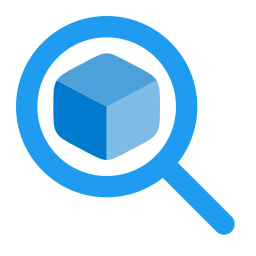
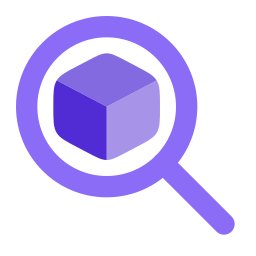
feat: rebrand NuGet LL accent from blue to .NET purple
Moves NuGet LL off VS Code blue (which Gitable keeps) onto the .NET
brand purple, across the extension and the site:

- Logo: cube #512BD4, lens #8B6CF6; re-rendered media/getll.png
  (Marketplace icon) and site/assets/getll.png (social image)
- Webview dashboard and activity-bar home view: purple accent tokens,
  with a lighter accent-dark/deep in dark themes so icons and borders
  stay visible
- Site: #512BD4 accent with white button text in light mode,
  #8B6CF6 / #B29CFB in dark mode
- All text/button pairs meet WCAG AA (4.8:1 to 9:1)

Also aligns the site with Gitable's: thin accent scrollbar, 1320px
content width, 0.85/1.15 hero split, application-name and og:locale meta.

diff --git a/src/webview/homeViewProvider.ts b/src/webview/homeViewProvider.ts
@@ -113,11 +113,11 @@ export class HomeViewProvider implements vscode.WebviewViewProvider {
     // Brand mark: 3D package cube inside a magnifying-glass lens (media/getll.svg).
     const logoSvg = `<svg width="26" height="26" viewBox="0 0 24 24" fill="none" aria-hidden="true">
       <g transform="translate(4 4) scale(0.5)">
-        <path d="M8.42229 20.6181C10.1779 21.5395 11.0557 22.0001 12 22.0001V12.0001L2.63802 7.07275C2.62423 7.09491 2.6107 7.11727 2.5974 7.13986C2 8.15436 2 9.41678 2 11.9416V12.0586C2 14.5834 2 15.8459 2.5974 16.8604C3.19479 17.8749 4.27063 18.4395 6.42229 19.5686L8.42229 20.6181Z" fill="#007acc"/>
-        <path opacity="0.7" d="M17.5774 4.43152L15.5774 3.38197C13.8218 2.46066 12.944 2 11.9997 2C11.0554 2 10.1776 2.46066 8.42197 3.38197L6.42197 4.43152C4.31821 5.53552 3.24291 6.09982 2.6377 7.07264L11.9997 12L21.3617 7.07264C20.7564 6.09982 19.6811 5.53552 17.5774 4.43152Z" fill="#007acc"/>
-        <path opacity="0.5" d="M21.4026 7.13986C21.3893 7.11727 21.3758 7.09491 21.362 7.07275L12 12.0001V22.0001C12.9443 22.0001 13.8221 21.5395 15.5777 20.6181L17.5777 19.5686C19.7294 18.4395 20.8052 17.8749 21.4026 16.8604C22 15.8459 22 14.5834 22 12.0586V11.9416C22 9.41678 22 8.15436 21.4026 7.13986Z" fill="#007acc"/>
+        <path d="M8.42229 20.6181C10.1779 21.5395 11.0557 22.0001 12 22.0001V12.0001L2.63802 7.07275C2.62423 7.09491 2.6107 7.11727 2.5974 7.13986C2 8.15436 2 9.41678 2 11.9416V12.0586C2 14.5834 2 15.8459 2.5974 16.8604C3.19479 17.8749 4.27063 18.4395 6.42229 19.5686L8.42229 20.6181Z" fill="#512BD4"/>
+        <path opacity="0.7" d="M17.5774 4.43152L15.5774 3.38197C13.8218 2.46066 12.944 2 11.9997 2C11.0554 2 10.1776 2.46066 8.42197 3.38197L6.42197 4.43152C4.31821 5.53552 3.24291 6.09982 2.6377 7.07264L11.9997 12L21.3617 7.07264C20.7564 6.09982 19.6811 5.53552 17.5774 4.43152Z" fill="#512BD4"/>
+        <path opacity="0.5" d="M21.4026 7.13986C21.3893 7.11727 21.3758 7.09491 21.362 7.07275L12 12.0001V22.0001C12.9443 22.0001 13.8221 21.5395 15.5777 20.6181L17.5777 19.5686C19.7294 18.4395 20.8052 17.8749 21.4026 16.8604C22 15.8459 22 14.5834 22 12.0586V11.9416C22 9.41678 22 8.15436 21.4026 7.13986Z" fill="#512BD4"/>
       </g>
-      <g stroke="#1f9cf0" stroke-width="2" stroke-linecap="round" stroke-linejoin="round">
+      <g stroke="#8B6CF6" stroke-width="2" stroke-linecap="round" stroke-linejoin="round">
         <circle cx="10" cy="10" r="7.5"/>
         <path d="M15.3 15.3 L21 21"/>
       </g>
@@ -152,13 +152,13 @@ export class HomeViewProvider implements vscode.WebviewViewProvider {
 <meta http-equiv="Content-Security-Policy" content="default-src 'none'; img-src ${webview.cspSource} https: data:; style-src ${webview.cspSource} 'unsafe-inline'; font-src ${webview.cspSource}; script-src 'nonce-${scriptNonce}';" />
 <link rel="stylesheet" href="${fontUri}" />
 <style>
-  :root { color-scheme: light; --ink: #192f42; --muted: #65798b; --surface: #ffffff; --hover: #eef4f9; --line: #dce4ec; --blue: #0065a9; }
-  body.vscode-dark, body.vscode-high-contrast { color-scheme: dark; --ink: #f4f7fb; --muted: #91a4b6; --surface: #141d28; --hover: #1c2a39; --line: #2b3b4c; --blue: #5cb6f5; }
+  :root { color-scheme: light; --ink: #192f42; --muted: #65798b; --surface: #ffffff; --hover: #eef4f9; --line: #dce4ec; --accent: #4a22c4; }
+  body.vscode-dark, body.vscode-high-contrast { color-scheme: dark; --ink: #f4f7fb; --muted: #91a4b6; --surface: #141d28; --hover: #1c2a39; --line: #2b3b4c; --accent: #b29cfb; }
 
   * { box-sizing: border-box; }
   ::-webkit-scrollbar { width: 8px; }
-  ::-webkit-scrollbar-thumb { background: #0065a9; border-radius: 4px; }
-  ::-webkit-scrollbar-thumb:hover { background: #1f9cf0; }
+  ::-webkit-scrollbar-thumb { background: #4a22c4; border-radius: 4px; }
+  ::-webkit-scrollbar-thumb:hover { background: #8b6cf6; }
   body {
     font-family: "DM Sans", var(--vscode-font-family, system-ui), sans-serif;
     margin: 0;
@@ -171,14 +171,14 @@ export class HomeViewProvider implements vscode.WebviewViewProvider {
   .logo {
     width: 46px; height: 46px; border-radius: 13px;
     display: flex; align-items: center; justify-content: center;
-    margin-bottom: 12px; color: var(--blue);
+    margin-bottom: 12px; color: var(--accent);
   }
   h2 { margin: 0 0 2px; font-size: 15px; letter-spacing: -0.2px; }
   p { margin: 0 0 16px; color: var(--muted); font-size: 12px; }
   button.primary {
     display: flex; align-items: center; justify-content: center;
     gap: 9px; width: 100%;
-    background: #1f9cf0; color: #06243a;
+    background: #8b6cf6; color: #140830;
     font-weight: 700; border: none; border-radius: 6px;
     padding: 9px 13px; margin-bottom: 18px;
     font-size: 12.5px; cursor: pointer; font-family: inherit;
@@ -193,8 +193,8 @@ export class HomeViewProvider implements vscode.WebviewViewProvider {
     border-radius: 8px; padding: 12px 13px;
     cursor: pointer; transition: border-color 0.15s ease, transform 0.15s ease;
   }
-  .card:hover { border-color: #007acc; background: var(--hover); }
-  .card .value { font-size: 24px; font-weight: 700; letter-spacing: -0.5px; color: var(--blue); line-height: 1.1; }
+  .card:hover { border-color: #512bd4; background: var(--hover); }
+  .card .value { font-size: 24px; font-weight: 700; letter-spacing: -0.5px; color: var(--accent); line-height: 1.1; }
   .card .value.neutral { color: var(--ink); }
   .card .value.bad { color: #e5534b; }
   .card .value.warn { color: #d9a440; }
@@ -210,14 +210,14 @@ export class HomeViewProvider implements vscode.WebviewViewProvider {
     font-size: 12px; cursor: pointer; font-family: inherit;
     transition: border-color 0.15s, color 0.15s, background 0.15s;
   }
-  .action:hover { border-color: #007acc; color: var(--ink); background: var(--hover); }
-  .action svg { color: #007acc; flex-shrink: 0; }
+  .action:hover { border-color: #512bd4; color: var(--ink); background: var(--hover); }
+  .action svg { color: #512bd4; flex-shrink: 0; }
   /* workspace info */
   .info-row { display: flex; align-items: center; justify-content: space-between; margin-bottom: 8px; }
   .info-key { font-size: 11.5px; color: var(--muted); }
   .sdk-badge {
     font-family: "SF Mono", Consolas, monospace; font-size: 11px;
-    background: rgba(31,156,240,0.1); color: var(--blue);
+    background: rgba(31,156,240,0.1); color: var(--accent);
     border: 1px solid rgba(31,156,240,0.25); border-radius: 4px;
     padding: 2px 9px;
   }
@@ -238,7 +238,7 @@ export class HomeViewProvider implements vscode.WebviewViewProvider {
   .proj-row:hover { background: var(--hover); }
   .proj-name { font-size: 12px; color: var(--ink); font-weight: 500; white-space: nowrap; overflow: hidden; text-overflow: ellipsis; }
   .proj-meta { font-size: 10.5px; color: var(--muted); flex-shrink: 0; margin-left: 8px; }
-  :focus-visible { outline: 2px solid #1f9cf0; outline-offset: 3px; }
+  :focus-visible { outline: 2px solid #8b6cf6; outline-offset: 3px; }
   @media (prefers-reduced-motion: reduce) { * { transition: none !important; } }
 
   .home-brand { display:flex; gap:12px; align-items:center; padding-bottom:20px; margin-bottom:20px; border-bottom:1px solid var(--line); }

diff --git a/site/styles.css b/site/styles.css
@@ -1,20 +1,20 @@
 /*
  * NuGet LL product site.
  * Follows the OS colour scheme (no toggle): light tokens by default, dark tokens
- * under prefers-color-scheme. NuGet LL blue accent. Plain CSS, no build step.
+ * under prefers-color-scheme. NuGet LL purple accent (.NET brand purple). Plain CSS, no build step.
  */
 
 :root {
   color-scheme: light;
 
   /* Brand */
-  --accent: #0b74c4;
-  --accent-hover: #075c9e;
+  --accent: #512bd4;
+  --accent-hover: #4a22c4;
   --accent-ink: #ffffff;
-  --accent-text: #0b6bb5;
-  --accent-soft: rgba(31, 156, 240, 0.12);
-  --accent-softer: rgba(31, 156, 240, 0.06);
-  --accent-line: rgba(31, 156, 240, 0.32);
+  --accent-text: #512bd4;
+  --accent-soft: rgba(81, 43, 212, 0.12);
+  --accent-softer: rgba(81, 43, 212, 0.06);
+  --accent-line: rgba(81, 43, 212, 0.32);
 
   /* Surfaces */
   --bg: #fafbfd;
@@ -44,7 +44,7 @@
   --shadow-sm: 0 1px 2px rgba(15, 28, 40, 0.05);
   --shadow: 0 1px 2px rgba(15, 28, 40, 0.04), 0 8px 24px -12px rgba(15, 28, 40, 0.14);
   --shadow-lg: 0 2px 4px rgba(15, 28, 40, 0.04), 0 24px 48px -20px rgba(15, 28, 40, 0.24);
-  --hero-glow: rgba(31, 156, 240, 0.09);
+  --hero-glow: rgba(81, 43, 212, 0.09);
 
   --font: "DM Sans", system-ui, -apple-system, "Segoe UI", Roboto, sans-serif;
   --mono: ui-monospace, SFMono-Regular, "Cascadia Mono", Menlo, Consolas, monospace;
@@ -56,13 +56,13 @@
   :root {
     color-scheme: dark;
 
-    --accent: #1f9cf0;
-    --accent-hover: #5cb6f5;
-    --accent-ink: #06243a;
-    --accent-text: #5cb6f5;
-    --accent-soft: rgba(31, 156, 240, 0.14);
-    --accent-softer: rgba(31, 156, 240, 0.07);
-    --accent-line: rgba(31, 156, 240, 0.34);
+    --accent: #8b6cf6;
+    --accent-hover: #b29cfb;
+    --accent-ink: #140830;
+    --accent-text: #b29cfb;
+    --accent-soft: rgba(139, 108, 246, 0.14);
+    --accent-softer: rgba(139, 108, 246, 0.07);
+    --accent-line: rgba(139, 108, 246, 0.34);
 
     --bg: #0d1117;
     --surface: #121923;
@@ -76,8 +76,8 @@
     --text: #d7dfea;
     --muted: #96a3b3;
 
-    --border: rgba(31, 156, 240, 0.16);
-    --border-strong: rgba(31, 156, 240, 0.34);
+    --border: rgba(139, 108, 246, 0.16);
+    --border-strong: rgba(139, 108, 246, 0.34);
 
     --patch: #62d39a;
     --minor: #e7bd57;
@@ -86,7 +86,7 @@
     --shadow-sm: 0 1px 2px rgba(0, 0, 0, 0.3);
     --shadow: 0 1px 2px rgba(0, 0, 0, 0.3), 0 10px 28px -14px rgba(0, 0, 0, 0.6);
     --shadow-lg: 0 2px 4px rgba(0, 0, 0, 0.3), 0 28px 56px -24px rgba(0, 0, 0, 0.75);
-    --hero-glow: rgba(31, 156, 240, 0.14);
+    --hero-glow: rgba(139, 108, 246, 0.14);
   }
 }
 
@@ -97,7 +97,7 @@
 html {
   scroll-behavior: smooth;
   -webkit-text-size-adjust: 100%;
-  scrollbar-color: rgba(31, 156, 240, 0.6) var(--bg);
+  scrollbar-color: rgba(139, 108, 246, 0.6) var(--bg);
   scrollbar-width: thin;
 }
 body {
@@ -192,7 +192,7 @@ button { font: inherit; }
   transition: background-color 0.15s ease, border-color 0.15s ease, box-shadow 0.15s ease, transform 0.15s ease;
 }
 .btn:active { transform: translateY(1px); }
-.btn-primary { background: var(--accent); color: var(--accent-ink); box-shadow: 0 1px 2px rgba(31, 156, 240, 0.25), 0 8px 24px -14px rgba(31, 156, 240, 0.6); }
+.btn-primary { background: var(--accent); color: var(--accent-ink); box-shadow: 0 1px 2px rgba(139, 108, 246, 0.25), 0 8px 24px -14px rgba(139, 108, 246, 0.6); }
 .btn-primary:hover { background: var(--accent-hover); color: var(--accent-ink); }
 .btn-secondary { background: var(--surface); color: var(--ink); border-color: var(--border); box-shadow: var(--shadow-sm); }
 .btn-secondary:hover { border-color: var(--border-strong); color: var(--ink); background: var(--surface-3); }

diff --git a/webview-ui/src/components/Icons.tsx b/webview-ui/src/components/Icons.tsx
@@ -155,12 +155,12 @@ export const IconLogo = (p: { size?: number; stroke?: string }) => (
     aria-hidden="true"
   >
     <g transform="translate(4 4) scale(0.5)">
-      <path d="M8.42229 20.6181C10.1779 21.5395 11.0557 22.0001 12 22.0001V12.0001L2.63802 7.07275C2.62423 7.09491 2.6107 7.11727 2.5974 7.13986C2 8.15436 2 9.41678 2 11.9416V12.0586C2 14.5834 2 15.8459 2.5974 16.8604C3.19479 17.8749 4.27063 18.4395 6.42229 19.5686L8.42229 20.6181Z" fill="#007acc" />
-      <path opacity="0.7" d="M17.5774 4.43152L15.5774 3.38197C13.8218 2.46066 12.944 2 11.9997 2C11.0554 2 10.1776 2.46066 8.42197 3.38197L6.42197 4.43152C4.31821 5.53552 3.24291 6.09982 2.6377 7.07264L11.9997 12L21.3617 7.07264C20.7564 6.09982 19.6811 5.53552 17.5774 4.43152Z" fill="#007acc" />
-      <path opacity="0.5" d="M21.4026 7.13986C21.3893 7.11727 21.3758 7.09491 21.362 7.07275L12 12.0001V22.0001C12.9443 22.0001 13.8221 21.5395 15.5777 20.6181L17.5777 19.5686C19.7294 18.4395 20.8052 17.8749 21.4026 16.8604C22 15.8459 22 14.5834 22 12.0586V11.9416C22 9.41678 22 8.15436 21.4026 7.13986Z" fill="#007acc" />
+      <path d="M8.42229 20.6181C10.1779 21.5395 11.0557 22.0001 12 22.0001V12.0001L2.63802 7.07275C2.62423 7.09491 2.6107 7.11727 2.5974 7.13986C2 8.15436 2 9.41678 2 11.9416V12.0586C2 14.5834 2 15.8459 2.5974 16.8604C3.19479 17.8749 4.27063 18.4395 6.42229 19.5686L8.42229 20.6181Z" fill="#512BD4" />
+      <path opacity="0.7" d="M17.5774 4.43152L15.5774 3.38197C13.8218 2.46066 12.944 2 11.9997 2C11.0554 2 10.1776 2.46066 8.42197 3.38197L6.42197 4.43152C4.31821 5.53552 3.24291 6.09982 2.6377 7.07264L11.9997 12L21.3617 7.07264C20.7564 6.09982 19.6811 5.53552 17.5774 4.43152Z" fill="#512BD4" />
+      <path opacity="0.5" d="M21.4026 7.13986C21.3893 7.11727 21.3758 7.09491 21.362 7.07275L12 12.0001V22.0001C12.9443 22.0001 13.8221 21.5395 15.5777 20.6181L17.5777 19.5686C19.7294 18.4395 20.8052 17.8749 21.4026 16.8604C22 15.8459 22 14.5834 22 12.0586V11.9416C22 9.41678 22 8.15436 21.4026 7.13986Z" fill="#512BD4" />
     </g>
     <g
-      stroke={p.stroke ?? "#1f9cf0"}
+      stroke={p.stroke ?? "#8B6CF6"}
       strokeWidth="2"
       strokeLinecap="round"
       strokeLinejoin="round"

diff --git a/webview-ui/src/styles.css b/webview-ui/src/styles.css
@@ -11,12 +11,12 @@
   --card-alt: #eef4f9;
   --border: #dce4ec;
   --border-soft: #e7edf3;
-  --accent: #1f9cf0;
-  --accent-dark: #007acc;
-  --accent-deep: #0065a9;
-  --accent-text: #0065a9;
-  --accent-soft: rgba(31, 156, 240, 0.09);
-  --accent-glow: rgba(31, 156, 240, 0.18);
+  --accent: #8b6cf6;
+  --accent-dark: #512bd4;
+  --accent-deep: #4a22c4;
+  --accent-text: #4a22c4;
+  --accent-soft: rgba(139, 108, 246, 0.09);
+  --accent-glow: rgba(139, 108, 246, 0.18);
   --text: #192f42;
   --text-secondary: #4f6578;
   --text-muted: #65798b;
@@ -41,7 +41,9 @@ body.vscode-high-contrast {
   --text: #f4f7fb;
   --text-secondary: #b7c6d4;
   --text-muted: #91a4b6;
-  --accent-text: #5cb6f5;
+  --accent-text: #b29cfb;
+  --accent-dark: #8b6cf6;
+  --accent-deep: #6a4de6;
   --button-muted: #1c2a39;
   --danger: #f17a73;
   --warning: #d9a440;
@@ -342,7 +344,7 @@ select:focus-visible {
 
 .btn-primary {
   background: var(--accent);
-  color: #06243a;
+  color: #140830;
   box-shadow: none;
 }
 
@@ -943,7 +945,7 @@ table.data td.pkg {
 
 .alert.info {
   background: var(--accent-soft);
-  border: 1px solid rgba(31, 156, 240, 0.25);
+  border: 1px solid rgba(139, 108, 246, 0.25);
   color: var(--accent-text);
 }
 
@@ -1042,7 +1044,7 @@ table.data td.pkg {
 
 .picker-actions button:hover {
   background: var(--accent-soft);
-  border-color: rgba(31, 156, 240, 0.35);
+  border-color: rgba(139, 108, 246, 0.35);
 }
 
 /* ---------- Dialog ---------- */
@@ -1176,7 +1178,7 @@ table.data td.pkg {
 }
 
 .status-item.completed {
-  border-color: rgba(31, 156, 240, 0.35);
+  border-color: rgba(139, 108, 246, 0.35);
 }
 
 .status-item.failed {

diff --git a/webview-ui/src/components/TopBar.tsx b/webview-ui/src/components/TopBar.tsx
@@ -39,7 +39,7 @@ export function TopBar(props: {
   return (
     <header className="topbar">
       <div className="topbar-brand">
-        <IconLogo size={20} stroke="#1f9cf0" />
+        <IconLogo size={20} stroke="#8B6CF6" />
         <strong>NuGet LL</strong>
       </div>
       <nav className="tabs" role="tablist" aria-label="Package manager views">
